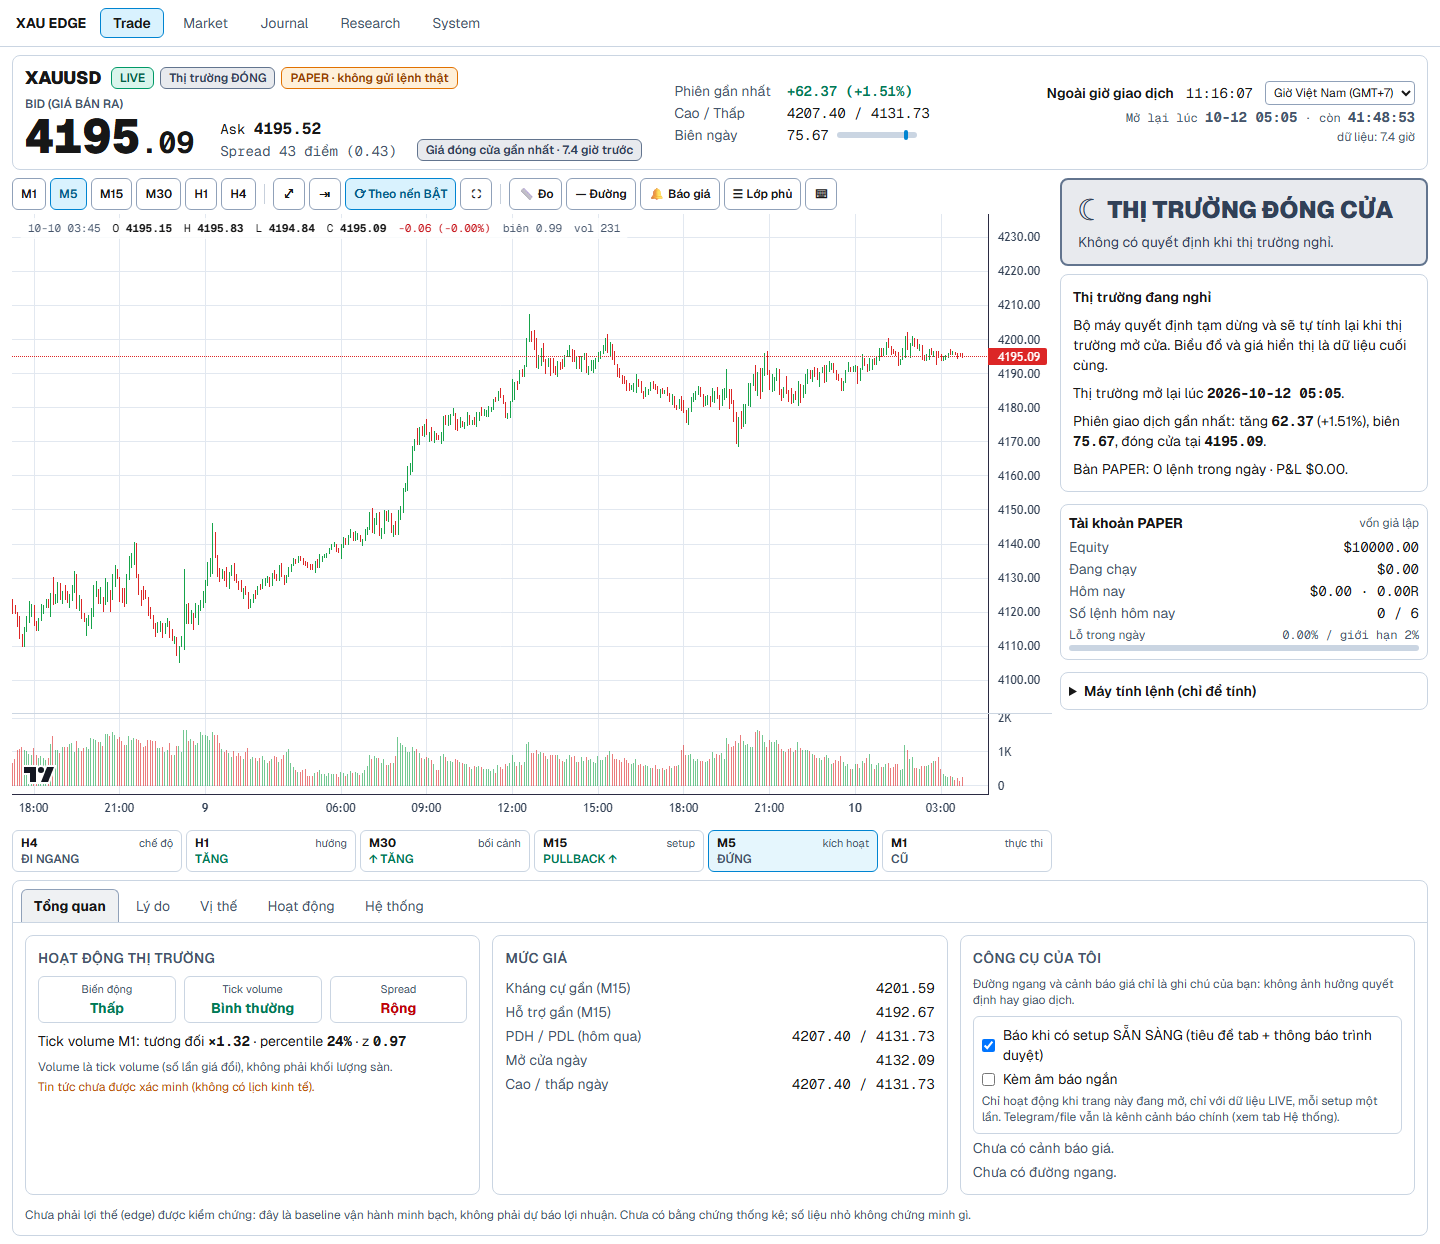
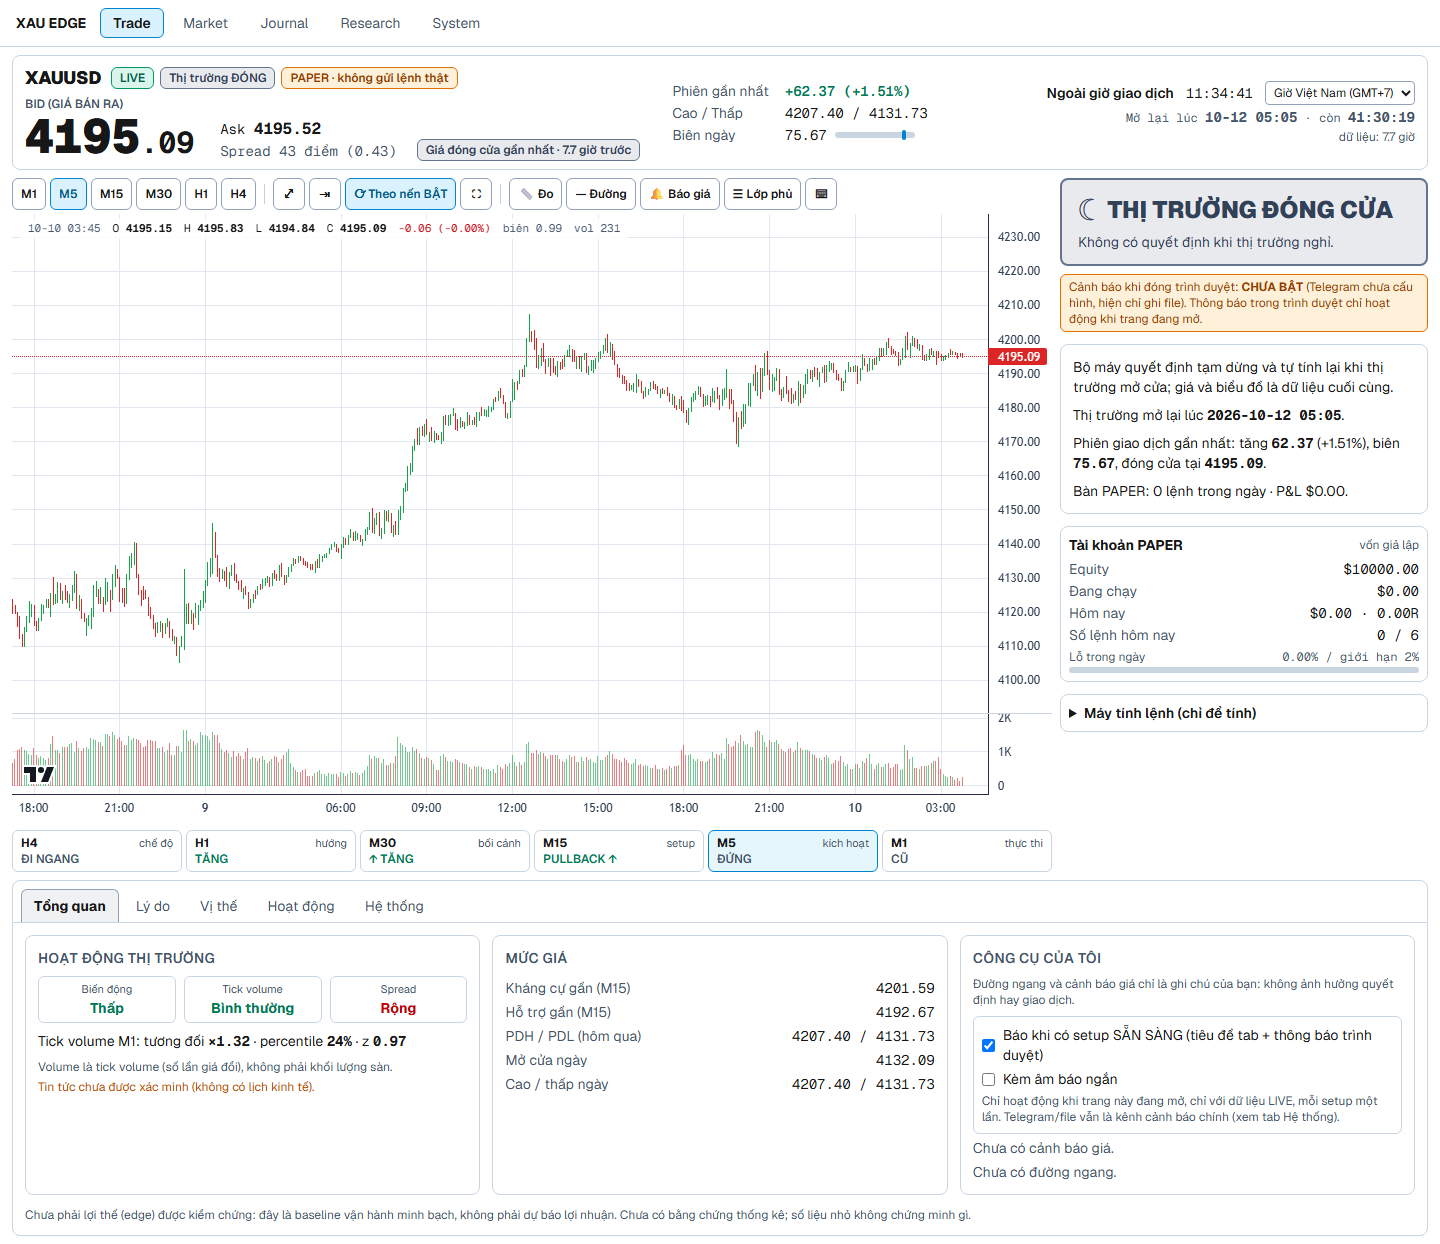
TRADE-06h: final terminal UI report, before/after, final screenshots, owner walkthrough

diff --git a/xau-edge/docs/reports/TRADING_TERMINAL_UI_FINAL.md b/xau-edge/docs/reports/TRADING_TERMINAL_UI_FINAL.md
@@ -1,0 +1,153 @@
+# Terminal giao dịch PAPER: báo cáo cuối (TRADING_TERMINAL_UI_FINAL)
+
+HEAD khởi đầu `6d75582efac82b71b22815f3771c8c7a3473f76a`. Các commit của sprint: `38a45ac` (06a), `56370f4` (06b), `e4fe16f` (06c), `b9396b7` (06d), `7ecd477` (06e), `b4d6391` (06f), `06g` (xem `git log`). Phạm vi: sản phẩm và giao diện. Không đổi chiến lược, ngưỡng, tần suất tín hiệu, SL/TP, phiên bản mặc định (v1.1.0); không có lệnh MT5; DEMO/FUNDED vẫn KHÓA. Ảnh trước/sau, quyết định A/B và đo hiệu năng: `TRADING_UI_BEFORE_AFTER.md`.
+
+## 1. Kỹ năng ECC và cách dùng
+
+Đã tìm trong `ECC/skills` (293 skill), `AGENTS.md`, `CLAUDE.md`, `.claude/`.
+
+| Skill | Mục đích | Dùng? |
+|---|---|---|
+| `frontend-design-direction` | hướng thiết kế: công cụ dùng hằng ngày thì dày, yên tĩnh, dễ quét, không thẻ-trong-thẻ, thanh công cụ ổn định | Có: thanh thị trường, bố cục, kiểm kê kiểm tra bằng checklist |
+| `frontend-a11y` | modal, tab, form, ARIA, focus | Có: bẫy tiêu điểm, roving tabindex, `inert`, nhãn |
+| `browser-qa` | ảnh 3 breakpoint + axe-core | Có: Playwright trên build production, axe WCAG 2 A/AA sáng/tối |
+| `e2e-testing` | mẫu Playwright, chống test flaky | Có: chờ hydrate, golden thật thay mock viết tay |
+| `react-patterns`, `react-performance` | hook/effect/re-render | Có: tránh setState trong effect, cập nhật tăng dần, đo trước/sau |
+| `verification-loop` | build, type, lint, test, diff | Có: gate đầy đủ mỗi vòng |
+| `product-lens` | hành trình người dùng | Có: kiểm kê "5 giây" và các vòng review trader |
+| `design-system`, `dashboard-builder`, `tdd-workflow`, `security-review` | khác | Xem xét, không cần thêm |
+
+Chỉ dẫn repo cao hơn prompt: `AGENTS.md` cấm API nhận hướng/lot/SL/TP tùy ý và mọi đường gửi lệnh. Vì thế "lệnh tự do" và "kéo SL/TP" là NOT APPLICABLE, không phải thiếu sót.
+
+## 2. Các vấn đề của UI ban đầu, ý tưởng, A/B
+
+Nguyên nhân gốc "thiếu tính năng cơ bản" (đo trên ảnh baseline thật 1440/1920/390/zoom200/tối): giá nhỏ giữa 7 chip kỹ thuật, không có ngữ cảnh ngày/phiên/đồng hồ/đếm ngược, biểu đồ thiếu tiện ích chuẩn và bị đẩy xuống, ~14 thẻ cạnh tranh, ngôn ngữ trộn, xác nhận inline và đóng lệnh một cú bấm. Mỗi vấn đề có 2–3 hướng; bốn quyết định lớn được A/B bằng ảnh thật với thang điểm cố định và reviewer mù (thứ tự ngẫu nhiên, tên trung tính):
+
+| Quyết định | A | B | Chọn |
+|---|---|---|---|
+| Bố cục chính | biểu đồ + cột vé 46 | bảng nổi trên biểu đồ 38 | **A** |
+| Thẻ quyết định | trạng thái chi phối 44 | pipeline trước 39 | **A** |
+| Vé lệnh | danh sách dọc 40 | lưới 37 | **A** |
+| R/R | vùng tô mờ 40 | thước R/R 40 (rõ hơn 4 vs 3) | **B**, dùng R/R ròng |
+
+Mã phương án thua đã gỡ. Bằng chứng thêm: bài kiểm tra "5 giây" mù (đúng gần như toàn bộ), và bốn vòng review trader (mục 52).
+
+## 3. Báo cáo 61 mục
+
+1. **HEAD khởi đầu:** `6d75582`.
+2. **HEAD cuối:** xem `git log` (commit `TRADE-06g` và các commit tài liệu cuối).
+3. **Skill ECC tìm thấy:** 293 trong `ECC/skills`; liên quan: 11 (mục 1).
+4. **Skill thực dùng:** frontend-design-direction, frontend-a11y, browser-qa, e2e-testing, react-patterns, react-performance, verification-loop, product-lens.
+5. **Vấn đề UI baseline:** mục 2 và `TRADING_UI_BEFORE_AFTER.md` §2.
+6. **Ý tưởng đã sinh:** thanh giá 3 kiểu (hai ô bid/ask · một giá giữa · header kiểu TradingView → chọn bid lớn + ask/spread nhỏ); bố cục 2; thẻ quyết định 2; vé 2; R/R 2 (vùng tô, thước); mobile (thanh hành động cố định, bottom sheet → chọn thanh cố định).
+7. **Biến thể A/B đã thử:** 4 quyết định × 2 phương án = 8 biến thể, chụp desktop và điện thoại.
+8. **Thang điểm:** 11 tiêu chí 0–5 cố định (hiểu 5 giây, thấy giá, thấy quyết định, tập trung biểu đồ, rõ kế hoạch, rõ hành động, mật độ, quen thuộc, rõ lỗi, di động, trợ năng) + độ phức tạp/bảo trì tôi tự chấm; thang không đổi sau khi thấy kết quả.
+9. **Người thắng:** bố cục A, thẻ A, vé A, thước R/R (B).
+10. **Bố cục chính:** thanh thị trường → lưới (biểu đồ + cột quyết định, dải đa khung dưới biểu đồ) → tab; điện thoại: giá → quyết định → biểu đồ → kế hoạch.
+11. **Thanh thị trường:** có (`MarketBar`).
+12. **Giá live:** bid cỡ lớn, ask, spread (điểm và giá).
+13. **Thay đổi ngày/cao/thấp/biên:** có, tính ở máy chủ trên ngày broker (`market_context`), so với đóng cửa hôm trước.
+14. **Phiên:** có, Á/Âu/Mỹ/chồng phiên, DST đúng, bảng ghim giữa Python và trình duyệt.
+15. **Đếm ngược:** có, theo lưới nến đã đóng và giờ máy chủ; khi đóng cửa hiện giờ mở lại (`next_open`).
+16. **Crosshair OHLC:** có (O/H/L/C, thay đổi, biên, volume; nến cuối khi không rê).
+17. **Đường giá hiện tại:** có, khác biệt với ENTRY/PAPER ENTRY/SL/TP.
+18. **Thanh công cụ biểu đồ:** M1–H4, vừa khung, mới nhất, theo nến, toàn màn hình, đo, đường ngang, cảnh báo giá, lớp phủ, phím tắt.
+19. **Toàn màn hình:** có, cùng một phần tử (không tạo lại), giữ khung/marker/Entry/SL/TP/vị thế và nút hành động; Esc thoát.
+20. **Fit/Latest/Follow:** có; chỉ thao tác kéo/lăn của người dùng mới tắt Follow; nến mới không kéo biểu đồ về; cập nhật tăng dần nên không reset zoom/pan.
+21. **Tương tác marker:** có, bấm vào nến có marker mở bảng chi tiết (cả bằng bàn phím).
+22. **Sửa lệch marker:** có; M1: nến đã đóng lúc có tín hiệu; M5: nến kích hoạt; ≥M15: nến chứa tín hiệu; test đơn vị + 4 khung trong trình duyệt.
+23. **Entry/SL/TP:** ENTRY nét liền, SL nét đứt, TP chấm; nhãn trục và chú giải; không chỉ màu.
+24. **Trực quan R/R:** thước R/R ròng trong vé; vùng tô thua A/B và đã gỡ.
+25. **Trung tâm quyết định:** có, 11 trạng thái tiếng Việt, tính ở máy chủ.
+26. **Trải nghiệm CHỜ:** tiến trình "đạt x/8", "Đang chờ", xu hướng, giai đoạn setup, hoạt động thị trường, cảnh báo tin tức.
+27. **Pipeline setup:** có, bấm đổi khung.
+28. **Dải đa khung:** có, bấm đổi khung.
+29. **Hoạt động thị trường:** biến động / tick / spread (tab Tổng quan và thẻ CHỜ).
+30. **Vé lệnh:** có (Entry, SL, TP, TP2, R/R ròng, rủi ro %, tiền, lot, lãi nếu TP, thước R/R, điều kiện vô hiệu).
+31. **Xác nhận mở:** hộp thoại gắn với đúng setup/SL/TP/rủi ro; kế hoạch đổi thì vô hiệu; hiện độ lệch giá theo R và giới hạn hủy 0,25R.
+32. **Bảng vị thế:** P&L lớn, R, giá vào/kế hoạch/hiện tại, SL/TP, khoảng cách tới SL/TP (giá và R), lot, thời gian, MFE/MAE.
+33. **Xác nhận đóng:** có, giá thực thi ước tính, P&L, R, mã lệnh; cảnh báo khi mất kết nối.
+34. **Hoạt động gần đây:** tab gộp tín hiệu, setup đã hình thành (kể cả hết hạn khi chưa ai mở), lệnh, cảnh báo; bấm để nhảy tới biểu đồ.
+35. **Journal → biểu đồ:** có (liên kết `/trade?focus=…&tf=…`; focus một lần).
+36. **Cảnh báo:** cảnh báo setup (Telegram/file), thông báo "setup sẵn sàng" (tiêu đề tab, Notification, âm báo tùy chọn), thông báo kênh ngoài trình duyệt.
+37. **Máy tính rủi ro:** có, "CHỈ LÀ MÁY TÍNH — KHÔNG PHẢI TÍN HIỆU".
+38. **Cảnh báo giá:** có, lưu cục bộ, chỉ khi trang mở và dữ liệu LIVE, báo một lần; hỗ trợ dấu phẩy thập phân.
+39. **Đường ngang tự vẽ:** có, nhớ lại, xóa được.
+40. **Công cụ đo:** có (chênh giá, điểm, %, số nến, phút).
+41. **Nền phiên:** có, DST đúng (Intl + bảng ghim với Python).
+42. **Phím tắt:** có, an toàn (không phím nào mở/đóng lệnh), có thể tắt (WCAG 2.1.4).
+43. **Lưu tùy chọn:** khung, lớp phủ, theo nến, múi giờ, tab, mức rủi ro, phím tắt, thông báo; kiểm tra khi đọc; không lưu quyền giao dịch/chiến lược/thông tin đăng nhập (có test).
+44. **Desktop 1440×900 và 1920×1080:** đạt; giá, quyết định, biểu đồ, dải đa khung đều trong màn hình đầu.
+45. **Điện thoại 390×844:** đạt; biểu đồ trong màn hình đầu, thanh hành động cố định, không cuộn ngang.
+46. **Zoom 200%:** đạt (720×450 CSS px), không cuộn ngang.
+47. **Chế độ tối:** đạt; ảnh LIVE + replay.
+48. **Trợ năng:** axe-core WCAG 2 A/AA sạch (sáng/tối × 7 trạng thái × mọi tab × hai modal × điện thoại); bẫy tiêu điểm, Esc, trả tiêu điểm, nền inert, roving tab, không chỉ dùng màu.
+49. **Hiệu năng (đo ở commit 06b):** cùng 35 request/30 s, CPU tác vụ 331 vs 356 ms, 0 tác vụ dài, 0 lần tạo lại chart, DOM 334 vs 528.
+50. **Kịch bản LIVE thật:** thị trường đóng (cuối tuần) trên stack sống, 6 ảnh LIVE sáng/tối/mobile/zoom; BUY/SELL live chưa xảy ra (tần suất thấp).
+51. **Kịch bản replay:** BUY/SELL thật, mở, đóng tay, SL/TP/TIME, stale, expired, paper hỏng, hai writer, API down, thị trường đóng, gần giờ đóng; 21 ca trình duyệt thật trên API replay thật.
+52. **Review UX độc lập:** 4 vòng (xem mục 4); vòng cuối: **YES, dùng được hằng ngày**.
+53. **Review kỹ thuật độc lập:** 2 vòng (xem mục 4).
+54. **Lỗi tìm thấy:** mục 4 (3 HIGH, 9 MEDIUM, thêm các LOW).
+55. **Lỗi đã sửa:** tất cả HIGH và MEDIUM xác nhận được; test hồi quy cho từng lỗi.
+56. **LOW còn lại:** mục 5.
+57. **Ma trận tính năng cơ bản:** mục 6.
+58. **Tính năng hoãn và lý do:** mục 7.
+59. **Số test:** `pytest -m "not mt5"` 2545 passed, 1 SKIP (symlink cần quyền trên Windows), 0 XFAIL; `pytest -m mt5` 3 passed; dashboard 175 test (89 e2e mock trên golden thật, unit thuần, 17 axe, journal, các hồi quy review) + 21 ca nghiệm thu trình duyệt thật trên API replay; ruff, `mypy --strict`, eslint, `tsc`, `next build` PASS.
+60. **CI:** CI_RESULT
+61. **Chủ có thể làm gì hôm nay:** mở `/trade`, đọc giá/ngữ cảnh/trạng thái, xem kế hoạch, mở và đóng lệnh paper qua hộp xác nhận, xem vị thế, hoạt động, journal (lọc, thống kê, CSV), đặt cảnh báo giá, vẽ đường ngang, đo, bật thông báo setup. Việc của chủ: cấu hình Telegram (cảnh báo khi đóng trình duyệt), cung cấp nguồn lịch kinh tế nếu muốn.
+
+## 4. Các lỗi tìm thấy qua review độc lập và cách xử lý
+
+**Review kỹ thuật vòng 1** (đọc mã, 11 mục): 2 HIGH (focus của biểu đồ áp lại mỗi 3 giây kéo người dùng về; nến sai khung sau khi đổi khung hoặc lỗi tải), 6 MEDIUM (đường giá tạo lại mỗi poll, phản hồi cũ ghi đè mới sau thao tác, leak listener, dấu phẩy thập phân bị từ chối, vé hết hạn/API lỗi vẫn như còn hiệu lực, a11y), LOW. Tất cả đã sửa và có test hồi quy (`e2e/review_fixes.spec.ts`).
+
+**Review kỹ thuật vòng 2** (xác minh bản sửa): 1 HIGH mới do bản sửa gây ra (đổi múi giờ làm chart trộn hai gốc thời gian), 3 MEDIUM (dấu phẩy nghìn, CSV, khóa đường giá), vài LOW. Đã sửa (chart dựng lại khi đổi múi giờ, `data-bars` kiểm chứng được, `parseDecimal` hiểu dấu nghìn, CSV đúng RFC 4180 + BOM + chặn công thức, `title` trong khóa đường giá, guard NaN, timeout cho POST, trình tự cho poll).
+
+**Review UX vòng 1–4** (trader lần đầu, ảnh thật): vòng 1/2/3 trả lời "NO" kèm đề xuất (lệnh tự do/quản lý SL-TP: ranh giới an toàn; thông báo setup; thống kê hiệu suất; lịch sử setup; thẻ lệnh gần nhất; khoảng cách SL/TP; lỗi hierarchy; điện thoại; tài khoản). Đã làm tất cả mục trong phạm vi: thanh tài khoản PAPER và giới hạn lỗ ngày, giờ mở lại, thông báo setup, Journal có lọc/tỷ lệ thắng/R trung bình/đường R/theo lý do/theo tuần/CSV, lịch sử setup (suýt có và hết hạn khi chưa ai mở), thẻ lệnh gần nhất, nút hành động khi toàn màn hình, TP2 tham khảo, độ lệch giá trong xác nhận, độ khẩn của đếm ngược, gọn bảng CHỜ, header điện thoại. **Vòng 4: YES, dùng được hằng ngày**, các điểm còn lại chỉ là gợi ý nhỏ (đã làm: nhãn marker chồng nhau, thanh tab điện thoại, một thông điệp thị trường đóng).
+
+**Bài kiểm tra "5 giây" mù** (5 ảnh × 9 câu): đúng gần như toàn bộ (giá, quyết định, Entry/SL/TP, vị thế, live/replay); lỗi duy nhất do ảnh test chụp lúc trang cuộn mất tiêu đề (đã sửa, mọi ảnh bắt đầu từ đầu trang).
+
+Bài học vận hành: dashboard sống trả 500 cho các chunk JS khi `.next` bị build lại trong lúc `next start` đang chạy; cần khởi động lại stack (`scripts\start_market_stack.ps1 -Dashboard`) sau mỗi lần build.
+
+## 5. LOW còn lại (không ảnh hưởng đúng đắn, không gây nhầm lệnh, không hỏng dữ liệu)
+
+* Giá trị tự gõ vào ô giá của cảnh báo/máy tính không có thông báo lỗi chi tiết ngoài việc không tính (có hướng dẫn "nhập entry, SL và rủi ro").
+* Cảnh báo giá hai tab ghi đè lẫn nhau theo "ghi sau thắng" (có đồng bộ qua sự kiện `storage`).
+* Nến tích lũy không cắt bớt trong phiên rất dài ở M1 (khoảng 1.440 nến/ngày, nhỏ).
+* Thanh tab hẹp trên điện thoại vẫn có thể cuộn ngang ở màn rất nhỏ.
+* Khi mất kết nối mà một POST mở lệnh đã tới máy chủ, thông báo nói "hãy kiểm tra vị thế" (không thể biết chắc từ phía trình duyệt).
+
+## 6. Ma trận tính năng terminal cơ bản
+
+| Tính năng | Kết quả | Tính năng | Kết quả |
+|---|---|---|---|
+| Giá live | YES | Xác nhận mở | YES |
+| Bid/Ask | YES | Quản lý vị thế | YES (không sửa SL/TP: ranh giới an toàn) |
+| Spread | YES | Xác nhận đóng | YES |
+| Thay đổi ngày | YES | Lịch sử | YES |
+| Cao/thấp ngày | YES | Journal → biểu đồ | YES |
+| Phiên | YES | Cảnh báo | YES (trong trình duyệt + Telegram/file; Telegram chờ chủ cấu hình) |
+| Giờ Việt Nam | YES | Máy tính rủi ro | YES |
+| Đếm ngược nến | YES | Hỗ trợ/kháng cự | YES |
+| Nến | YES | PDH/PDL | YES |
+| Khung thời gian | YES | Nền phiên | YES |
+| Crosshair OHLC | YES | Cảnh báo giá | YES (chỉ khi trang mở) |
+| Đường giá hiện tại | YES | Đường ngang | YES |
+| Fit / Latest / Follow | YES | Công cụ đo | YES |
+| Toàn màn hình | YES | Phím tắt | YES |
+| Volume | YES (tick volume) | Lưu tùy chọn | YES |
+| BUY/SELL/WAIT | YES | Setup progress | YES |
+| Marker + chi tiết | YES | Entry/SL/TP | YES |
+| Trực quan R/R | YES | Đa khung | YES |
+| Hoạt động thị trường | YES | Vé lệnh PAPER | YES |
+| Lịch tin kinh tế | DEFERRED (cần nguồn dữ liệu ngoài; trang ghi rõ "chưa xác minh") | Push khi đóng trình duyệt | DEFERRED (cần token Telegram của chủ; hạ tầng phía máy chủ đã có) |
+
+## 7. Hoãn và lý do
+
+* **Lệnh tự do, SL/TP tùy ý, lệnh chờ, kéo SL/TP, break-even/chốt một phần bằng tay:** NOT APPLICABLE theo `AGENTS.md` (không có API nhận hướng/lot/SL/TP tùy ý).
+* **Lịch kinh tế:** cần nhà cung cấp dữ liệu ngoài; chưa có trong repo.
+* **Cảnh báo đẩy khi đóng trình duyệt:** cần thông tin xác thực Telegram của chủ; trang cảnh báo trạng thái "CHƯA BẬT".
+* **Chỉ báo (MA/ATR), công cụ vẽ nâng cao, watchlist DXY/US10Y:** mở rộng phạm vi lớn so với giá trị cho một bộ máy quyết định đa khung cố định.
+
+## 8. Phán quyết
+
+TRADING TERMINAL UI READY FOR DAILY PAPER USE
